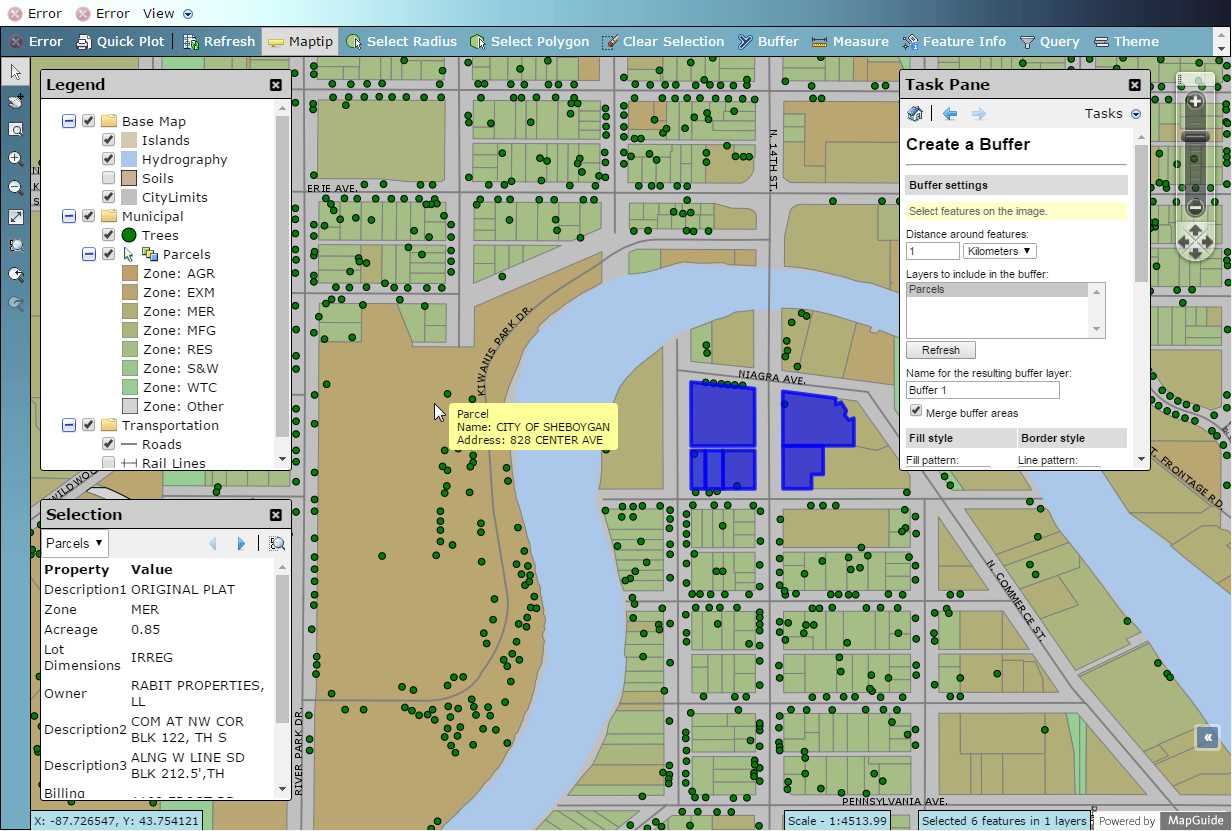
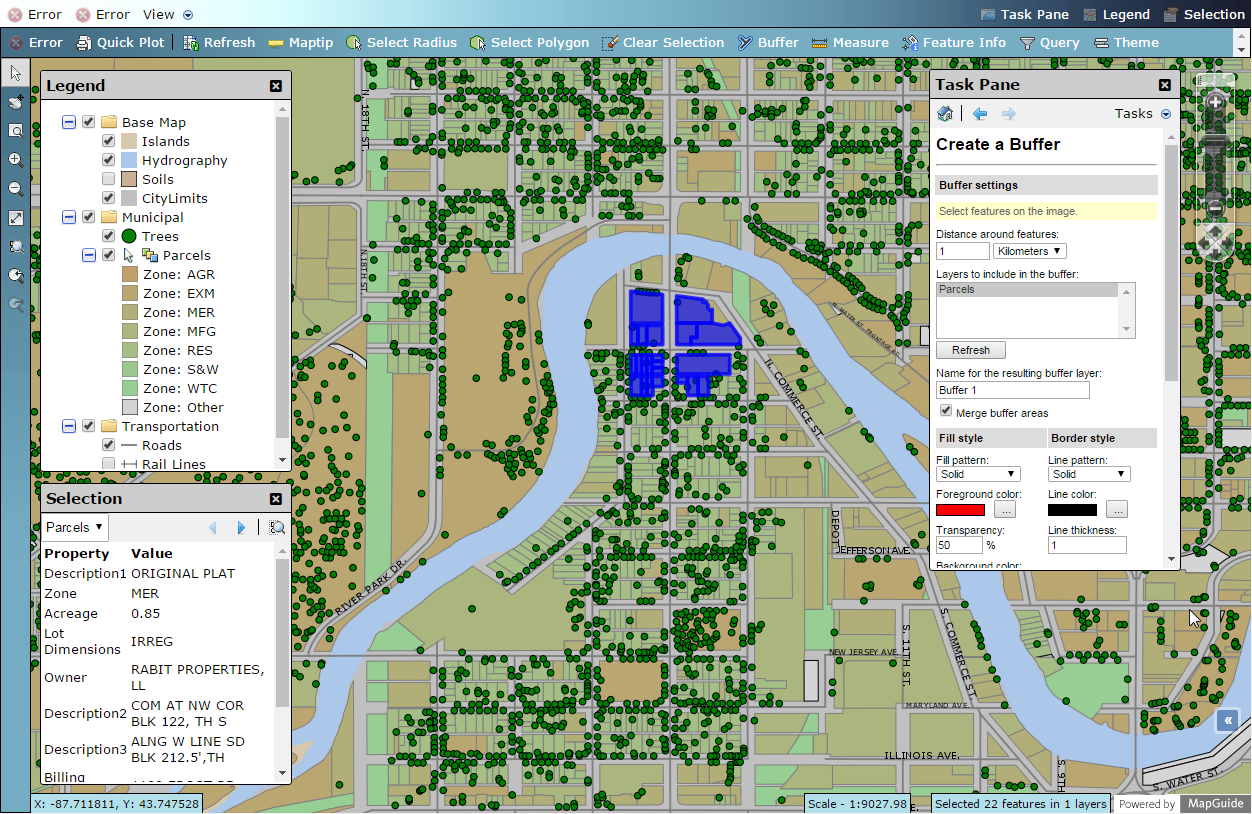
#64: Add hard-coded toolbar buttons to toggle visibility of TaskPane / Legend / Selection Panel.
This is required as we do not support InvokeScript commands/widgets

diff --git a/src/layouts/aqua.tsx b/src/layouts/aqua.tsx
@@ -1,6 +1,7 @@
 import * as React from "react";
 import { PlaceholderComponent, DefaultComponentNames } from "../api/registry/component";
 import { DEFAULT_TOOLBAR_SIZE, TOOLBAR_BACKGROUND_COLOR } from "../components/toolbar";
+import { Toolbar, IItem } from "../components/toolbar";
 import { ToolbarContainer } from "../containers/toolbar";
 import { AjaxViewerShim } from "../containers/ajax-viewer-shim";
 import { ModalLauncher } from "../containers/modal-launcher";
@@ -9,6 +10,7 @@ import { ModalDialog } from "../components/modal-dialog";
 import { connect } from "react-redux";
 import { tr } from "../api/i18n";
 import {
+    NOOP,
     ReduxDispatch
 } from "../api/common";
 
@@ -16,7 +18,7 @@ const SIDEBAR_WIDTH = 250;
 const LEGEND_HEIGHT = 350;
 const SELECTION_DIALOG_HEIGHT = 300;
 const LEGEND_DIALOG_HEIGHT = 400;
-const TASK_DIALOG_HEIGHT = 400;
+const TASK_DIALOG_HEIGHT = 500;
 const DIALOG_HEADER_HEIGHT = 28 + 3;
 
 export interface IAquaTemplateLayoutState {
@@ -47,6 +49,7 @@ export class AquaTemplateLayout extends React.Component<AquaTemplateLayoutProps,
     private fnHideLegend: () => void;
     private fnHideSelection: () => void;
     private fnHideOverviewMap: () => void;
+    private viewItems: IItem[];
     constructor(props: AquaTemplateLayout) {
         super(props);
         this.fnHideLegend = this.onHideLegend.bind(this);
@@ -59,6 +62,38 @@ export class AquaTemplateLayout extends React.Component<AquaTemplateLayoutProps,
             isSelectionOpen: true,
             isOverviewMapOpen: false
         };
+        this.viewItems = [
+            {
+                icon: "application-browser.png",
+                label: tr("TPL_TITLE_TASKPANE", this.props.config.locale),
+                invoke: () => {
+                    this.setState({
+                        isTaskPaneOpen: true
+                    });
+                },
+                enabled: () => !this.state.isTaskPaneOpen
+            },
+            {
+                icon: "legend-map.png",
+                label: tr("TPL_TITLE_LEGEND", this.props.config.locale),
+                invoke: () => {
+                    this.setState({
+                        isLegendOpen: true
+                    });
+                },
+                enabled: () => !this.state.isLegendOpen
+            },
+            {
+                icon: "property.png",
+                label: tr("TPL_TITLE_SELECTION_PANEL", this.props.config.locale),
+                invoke: () => {
+                    this.setState({
+                        isSelectionOpen: true
+                    });
+                },
+                enabled: () => !this.state.isSelectionOpen
+            }
+        ]
     }
     private onHideTaskPane() {
         this.setState({ isTaskPaneOpen: false });
@@ -90,6 +125,7 @@ export class AquaTemplateLayout extends React.Component<AquaTemplateLayoutProps,
         let tpWidth = SIDEBAR_WIDTH;
         return <div style={{ width: "100%", height: "100%" }}>
             <ToolbarContainer id="FileMenu" containerClass="aqua-file-menu" containerStyle={{ position: "absolute", left: 0, top: 0, zIndex: 100, right: 0 }} />
+            <Toolbar childItems={this.viewItems} containerStyle={{ position: "absolute", right: 0, top: 0, height: DEFAULT_TOOLBAR_SIZE, zIndex: 101, color: "white" }} onCloseFlyout={NOOP} onOpenFlyout={NOOP} />
             <ToolbarContainer id="Toolbar" containerClass="aqua-toolbar" containerStyle={{ position: "absolute", left: 0, top: (DEFAULT_TOOLBAR_SIZE - 2), zIndex: 100, right: 0 }} />
             <ToolbarContainer id="ToolbarVertical" containerClass="aqua-toolbar-vertical" vertical={true} containerStyle={{ position: "absolute", left: 0, top: ((DEFAULT_TOOLBAR_SIZE * 2) - 1), zIndex: 100, bottom: 0 }} />
             {(() => {
